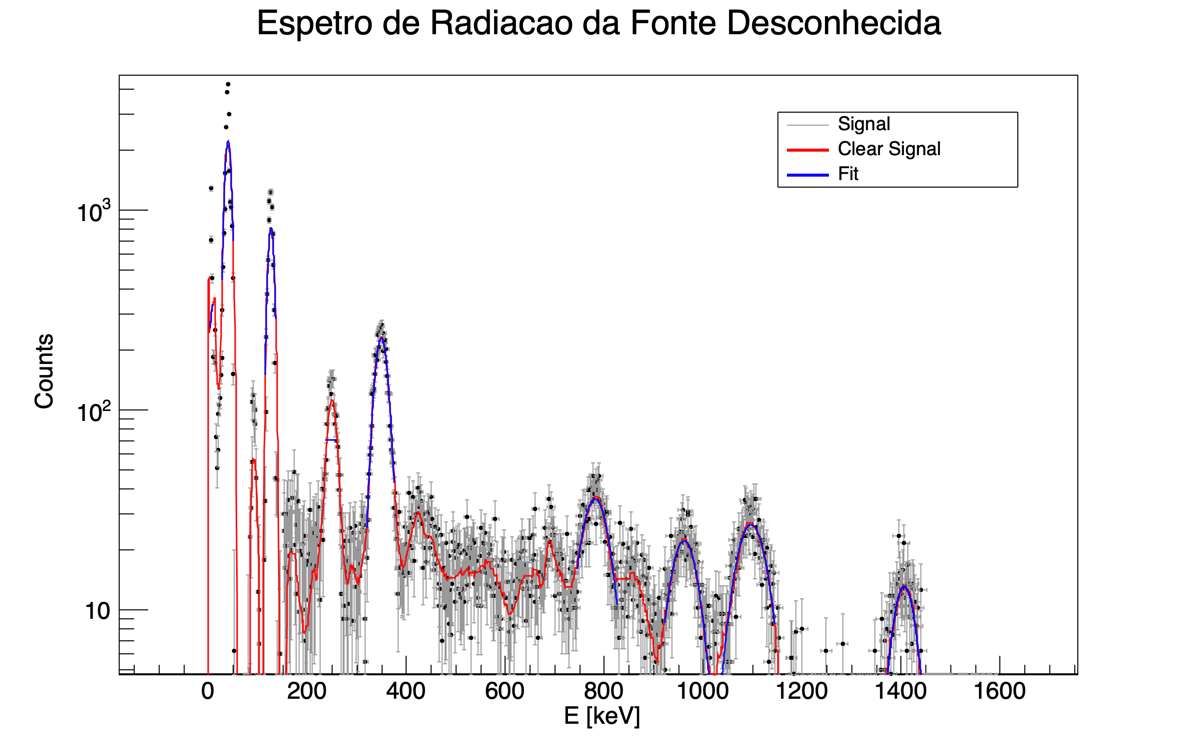
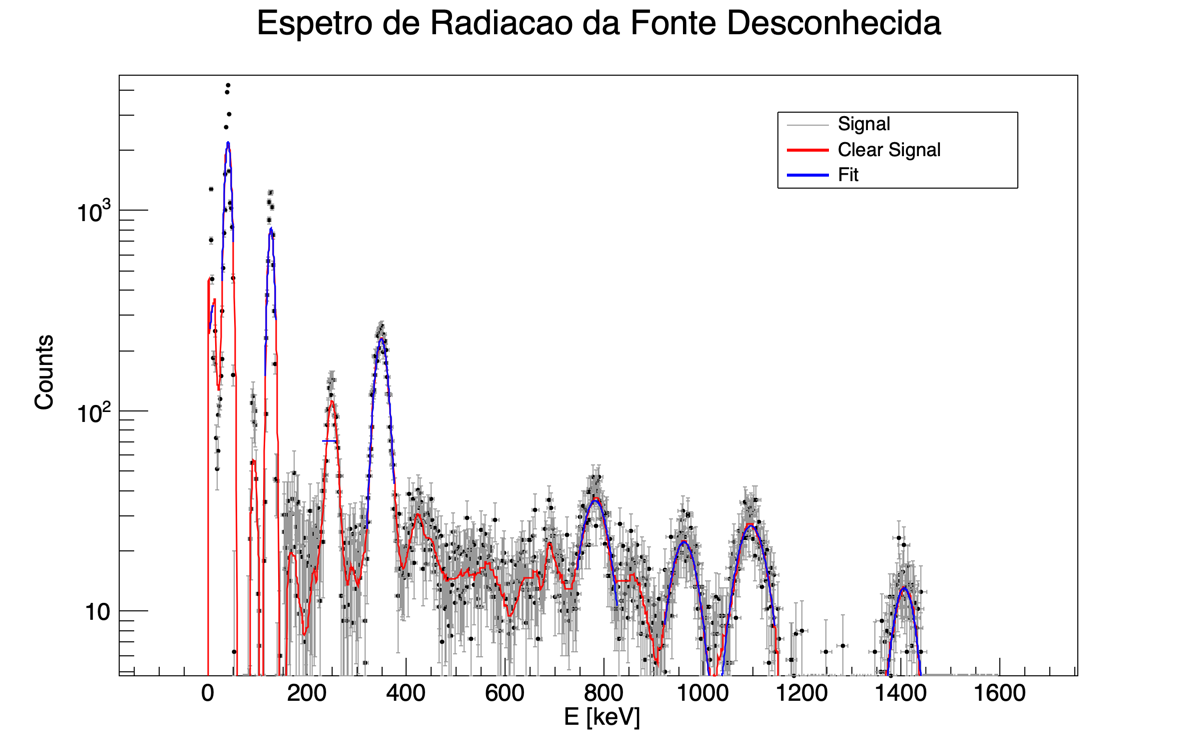
OK

diff --git a/Gama/main/Analise.cpp b/Gama/main/Analise.cpp
@@ -182,7 +182,7 @@ int main(){
     }
     Cs_Backscatter.AddPoint(rad_cs_smoothed[inte1].first, rad_cs_smoothed[inte1].second);
     Cs_Backscatter.AddPoint(184, 0);
-    Cs_Backscatter.SetMarkerSize(1);
+    Cs_Backscatter.SetMarkerSize(1.5);
     Cs_Backscatter.SetMarkerStyle(22);
     Cs_Backscatter.SetMarkerColor(kBlue);
 
@@ -200,16 +200,16 @@ int main(){
     }
     TGraph Cs_Compton;
     Cs_Compton.AddPoint(rad_cs_smoothed[inte].first, rad_cs_smoothed[inte].second);
-    Cs_Compton.SetMarkerSize(1);
+    Cs_Compton.SetMarkerSize(1.5);
     Cs_Compton.SetMarkerStyle(22);
     Cs_Compton.SetMarkerColor(kYellow+0);
 
 
     // Create a legend
-    TLegend* cesio = new TLegend(0.65, 0.75, 0.85, 0.85); // Specify the position of the legend
+    TLegend* cesio = new TLegend(0.65, 0.79, 0.85, 0.89); // Specify the position of the legend
     cesio->AddEntry(&G_Cs, "Signal", "l"); 
     cesio->AddEntry(&G_Cs_Smoothed, "Clear Signal", "l"); // "l" for a solid line
-    cesio->AddEntry(F_Cs3, "Fit", "l"); // "l" for a solid line
+    cesio->AddEntry(F_Cs3, "Calibration Peaks Fit", "l"); // "l" for a solid line
     cesio->AddEntry(&Cs_Backscatter, "Backscatter Peak", "p"); // "p" for a point
     cesio->AddEntry(&Cs_Compton, "Compton Edge", "p"); // "p" for a point
 
@@ -317,12 +317,13 @@ int main(){
     }
 
     // Create a legend
-    TLegend* legend = new TLegend(0.65, 0.75, 0.85, 0.85); // Specify the position of the legend
+    TLegend* legend = new TLegend(0.65, 0.79, 0.85, 0.89); // Specify the position of the legend
     
     // Add an entry to the legend
     legend->AddEntry(&G_Co_Smoothed, "Clear Signal", "l"); // "l" for a solid line
     legend->AddEntry(F_Co3, "Back Scattering", "l"); // "l" for a solid line
     legend->AddEntry(&Point, "Compton Edge", "p"); // "p" for a point
+    legend->AddEntry(F_Co1, "Calibration Peak", "l"); // "l" for a solid line
     // Draw
     legend->Draw();
     G_Co_Smoothed.Draw("same C");
@@ -397,7 +398,7 @@ int main(){
     G_Am_Smoothed.Fit("F_Des6","","",114, 136);
     F_Des6->Draw("same C");
     
-    TF1 *F_Des2 = new TF1("F_Des2", "[0]*exp(-0.5*((x-[1])/[2])**2)", 236, 258);
+    TF1 *F_Des2 = new TF1("F_Des2", "[0]*exp(-0.5*((x-[1])/[2])**2)", 230, 258);
     F_Des2->SetParameters(1000, 235, 10);
     F_Des2->SetParNames("C","#mu", "#sigma");
     F_Des2->SetLineColor(kBlue);
@@ -518,8 +519,12 @@ int main(){
     G_Cs_Pb_Thin_Smoothed.SetLineWidth(3);
     G_Cs_Pb_Thin_Smoothed.SetMarkerStyle(20);
     G_Cs_Pb_Thin_Smoothed.SetMarkerSize(0.5);
-    G_Cs_Pb_Thin_Smoothed.GetXaxis()->CenterTitle();
-    G_Cs_Pb_Thin_Smoothed.GetYaxis()->CenterTitle();
+
+    TLegend *leg2 = new TLegend(0.55, 0.75, 0.75, 0.85);
+    leg2->AddEntry(&G_Cs_Pb, "Thick Plate Signal", "l");
+    leg2->AddEntry(&G_Cs_Pb_Smoothed, "Thick Plate Clear Signal", "l");
+    leg2->AddEntry(&G_Cs_Pb_Thin, "Thin Plate Signal", "l");
+    leg2->AddEntry(&G_Cs_Pb_Thin_Smoothed, "Thin Plate Clear Signal", "l");
 
     c1.Clear();
     G_Cs_Pb_Thin.SetTitle("Espetro de Radiacao do Cs-137 com Placas de Chumbo; E [keV]; Counts");
@@ -529,6 +534,7 @@ int main(){
     G_Cs_Pb.Draw("same C");
     G_Cs_Pb_Smoothed.Draw("same C");
     G_Cs_Pb_Thin_Smoothed.Draw("same C");
+    leg2->Draw();
     c1.SetLogy();
     c1.Update();
     c1.SaveAs("Graphs/Atenuacao_Materia.png");
@@ -546,7 +552,7 @@ int main(){
     G_Coeficiente_Atenuacao.SetLineColor(kRed);
     G_Coeficiente_Atenuacao.SetMarkerStyle(20);
     G_Coeficiente_Atenuacao.SetMarkerSize(0.5);
-    G_Coeficiente_Atenuacao.SetTitle("Coeficiente de Atenuacao do Chumbo; Espessura [mg/cm^2]; ln(Counts)");
+    G_Coeficiente_Atenuacao.SetTitle("Coeficiente de Atenuacao do Chumbo; Espessura [mg/cm^2]; Ln(Counts)");
     G_Coeficiente_Atenuacao.GetXaxis()->CenterTitle();
     G_Coeficiente_Atenuacao.GetYaxis()->CenterTitle();
     G_Coeficiente_Atenuacao.Fit("co", "");
